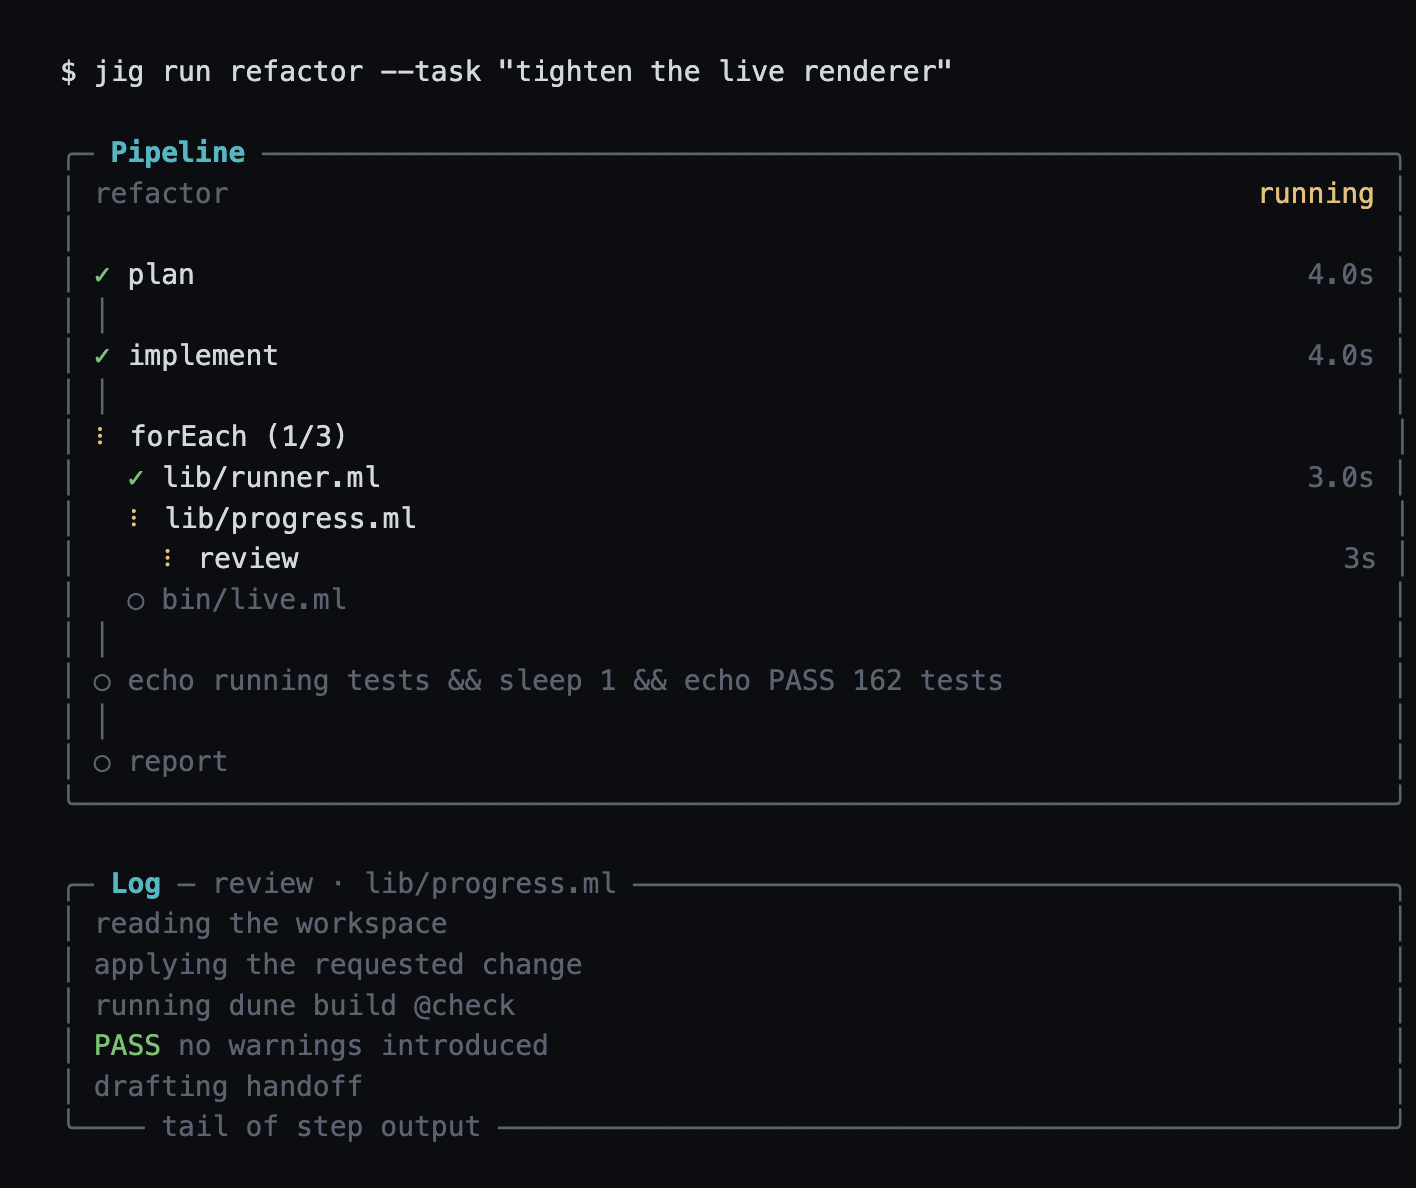
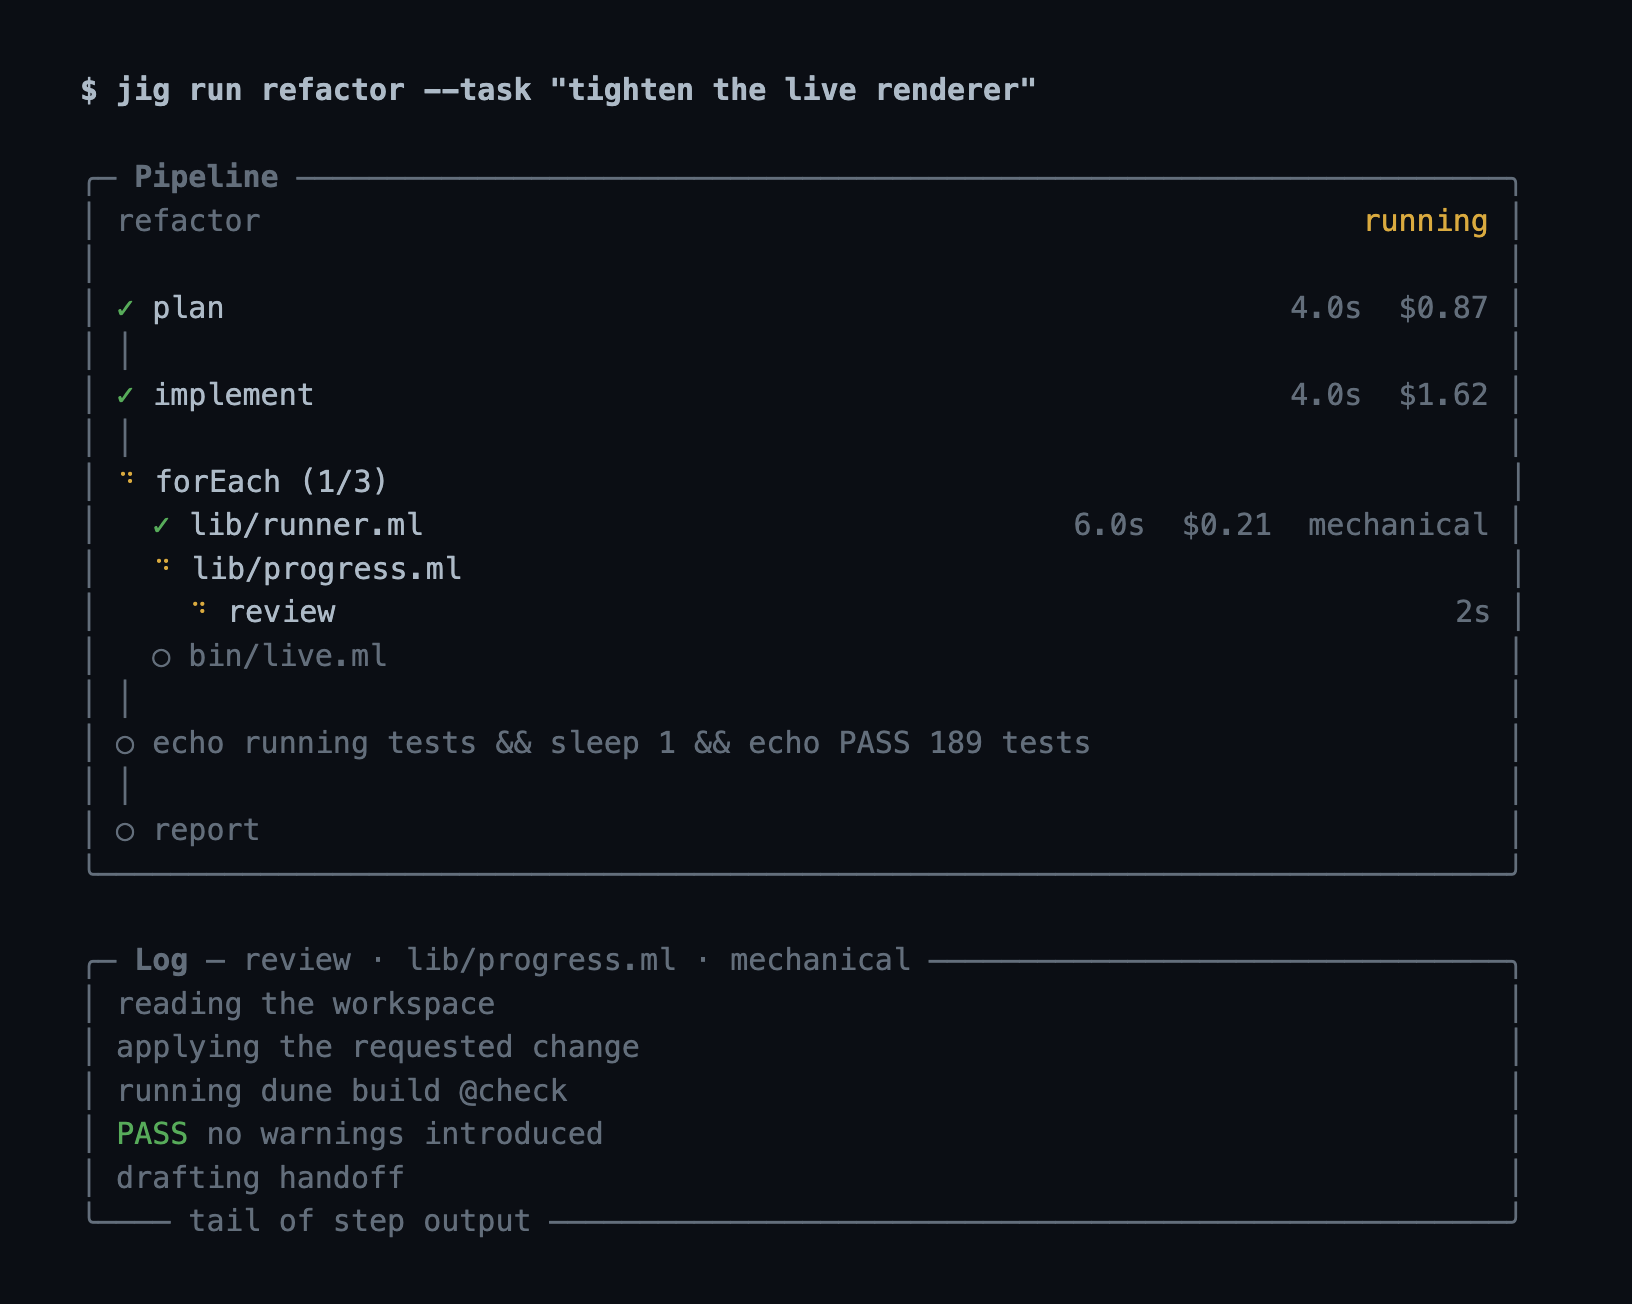
readme: tiers, the field guide, and a live-view capture with per-step economics (#112)
The Tiers section shows the workflow/config split and the per-tier cost
breakdown from the run report; the field-guide section describes the
cross-run knowledge file. The live-view capture is a real mid-run frame:
finished steps carry duration, cost, and tier, and the log box titles
the running step with its item and tier.

diff --git a/README.md b/README.md
@@ -41,11 +41,49 @@ marked `escalate` pauses the run for you:
 jig run --resume <run-id> --guidance "the fix belongs in the parser, not the lexer"
 ```
 
+## Tiers
+
+Only the steps that need judgment - diagnosis, design, tradeoffs - need a
+frontier model; mechanical steps (running tests, opening a PR) run fine on
+a cheaper one. A skill step declares an abstract cost tier, and
+`config.yaml` maps each tier to a concrete harness command, so the
+workflow stays portable while the economics stay local:
+
+```yaml
+# workflow                          # .jig/config.yaml
+- skill: implement-fix              tiers:
+- skill: run-tests                    mechanical:
+  until: pass                           - claude
+  tier: mechanical                      - -p
+                                        - --model
+                                        - claude-haiku-4-5-20251001
+                                        # ...
+```
+
+A skill can also declare its own default tier in SKILL.md frontmatter; the
+workflow step overrides it. A tier the local config does not map falls
+back to the default harness (`jig validate` warns). The run report breaks
+cost down per tier:
+
+```
+total cost: $3.6700
+by tier: default $3.0400 (4 steps); mechanical $0.6300 (3 steps)
+```
+
+## The field guide
+
+`.jig/FIELDGUIDE.md` is repo knowledge agents accumulate across runs -
+build quirks, hidden dependencies, commands that must run first. When the
+file exists, jig injects it into every step's prompt and invites the agent
+to append durable learnings; an append mid-run reaches the very next step.
+It is a plain repo file: versioned, reviewable in PRs, prunable.
+
 ## The live view
 
 On a TTY, `jig run` draws the run in place: the pipeline with a spinner on
-the active step and per-step durations and costs, and beneath it a live
-tail of what the running step's agent is doing.
+the active step and per-step durations, costs, and tiers, and beneath it a
+live tail of what the running step's agent is doing - titled with the
+step, its forEach item, and the tier it runs on.
 When the run ends, the completed pipeline stays in the scrollback above the
 run report; each step's full output lives in the run record.
 
@@ -71,7 +109,8 @@ jig validate <workflow>                     # lint before running
 
 ```
 .jig/
-  config.yaml          # harness command (+ optional sandbox wrapper)
+  config.yaml          # harness command, cost tiers (+ optional sandbox wrapper)
+  FIELDGUIDE.md        # repo knowledge agents accumulate across runs
   skills/<name>/SKILL.md
   workflows/<name>.yaml
   runs/                # one JSON record per run + metering.jsonl